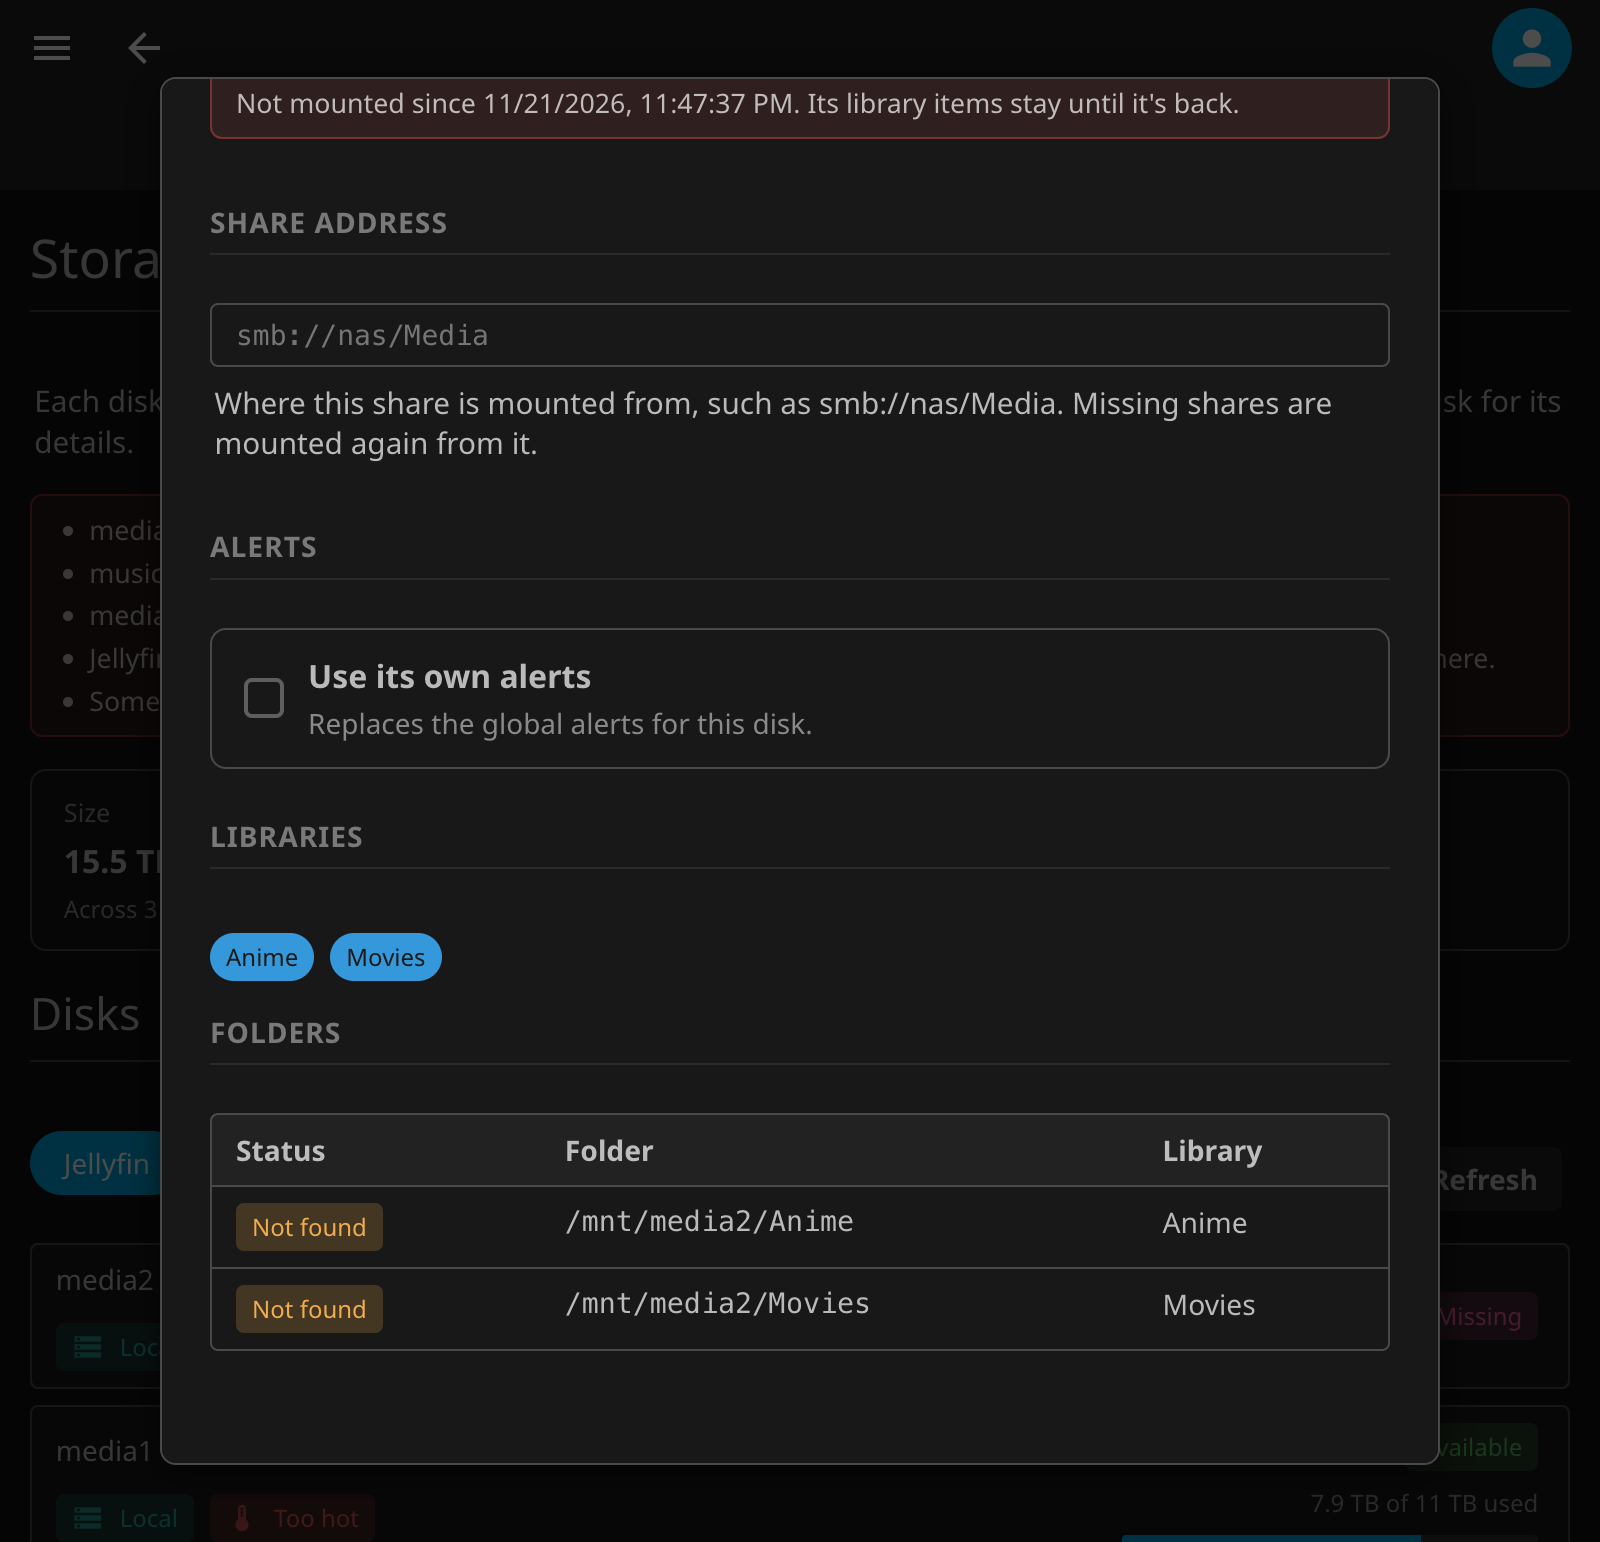
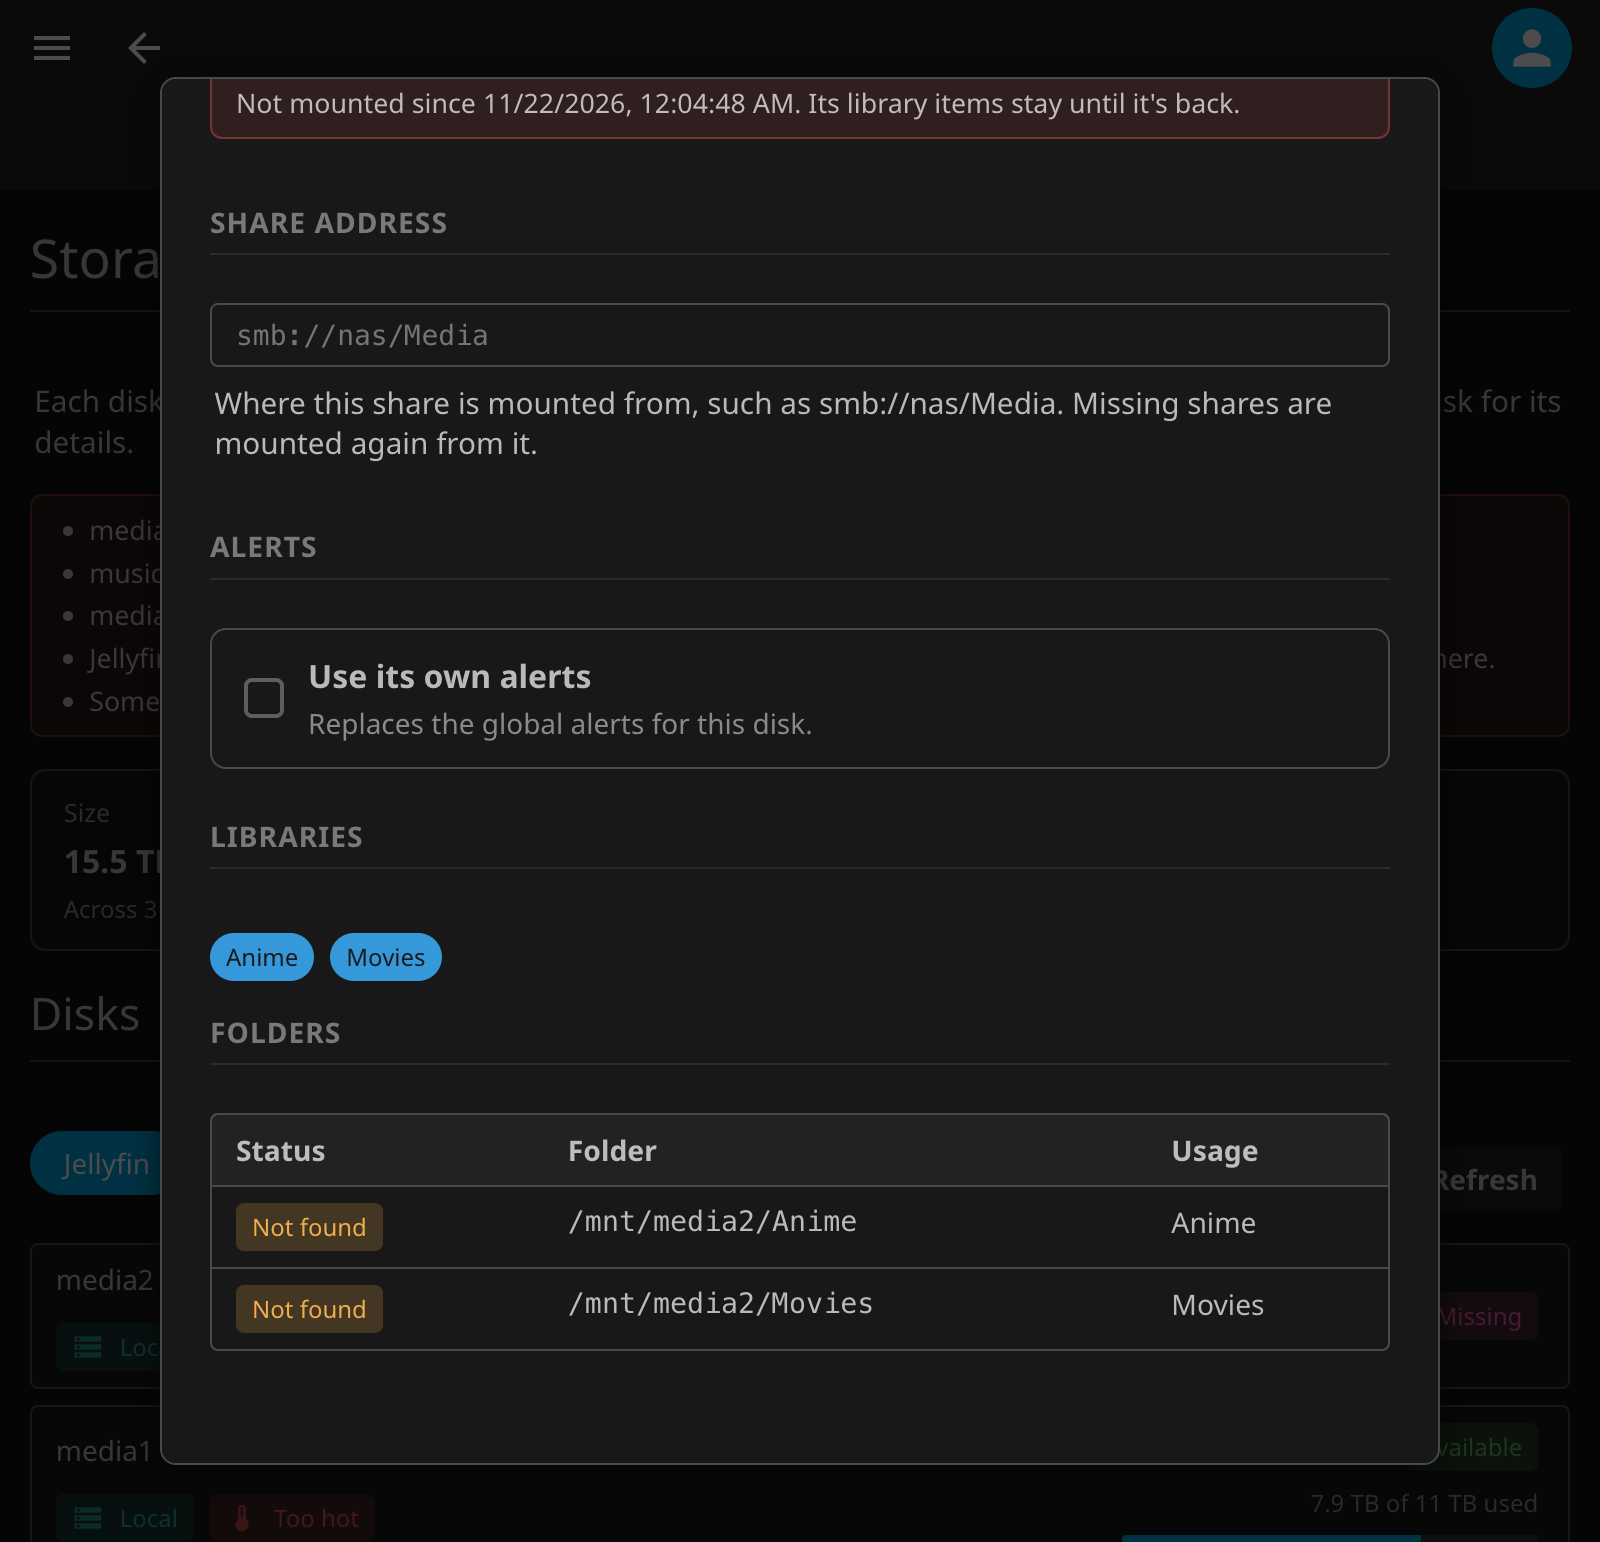
Name the folders column Usage and list Check storage under Maintenance

diff --git a/Jellyfin.Plugin.Storage/Web/storage_storage.js b/Jellyfin.Plugin.Storage/Web/storage_storage.js
@@ -275,7 +275,7 @@ export default function (view) {
         }).join('');
         var wrap = node('div', 'base-static-table-scroll', '');
         wrap.innerHTML = '<table class="base-static-table"><thead><tr><th>' + escapeHtml(t.tr('LabelStatus')) + '</th><th>'
-            + escapeHtml(t.tr('LabelFolder')) + '</th><th>' + escapeHtml(t.tr('ColumnLibrary')) + '</th></tr></thead><tbody>' + rows + '</tbody></table>';
+            + escapeHtml(t.tr('LabelFolder')) + '</th><th>' + escapeHtml(t.tr('LabelUsage')) + '</th></tr></thead><tbody>' + rows + '</tbody></table>';
         section.appendChild(wrap);
         return section;
     }

diff --git a/Jellyfin.Plugin.Storage/Web/storage_common.js b/Jellyfin.Plugin.Storage/Web/storage_common.js
@@ -159,7 +159,7 @@ export function createAlertEditor(options) {
     root.querySelector('.storage-alert-checks').setAttribute('aria-label', t.tr('TabStorage'));
     var pillGroup = root.querySelector('.base-pill-group');
     pillGroup.setAttribute('aria-label', t.tr('LabelMeasurement'));
-    pillGroup.children[0].textContent = t.tr('UnitUsage');
+    pillGroup.children[0].textContent = t.tr('LabelUsage');
     pillGroup.children[1].textContent = t.tr('LabelSize');
     var unitField = root.querySelector('.storage-alert-unit');
 

diff --git a/Jellyfin.Plugin.Storage/Tasks/CheckStorageTask.cs b/Jellyfin.Plugin.Storage/Tasks/CheckStorageTask.cs
@@ -5,6 +5,7 @@ using System.Threading.Tasks;
 using Jellyfin.Plugin.Storage.Services;
 using JPKribs.Jellyfin.Base;
 using MediaBrowser.Controller.Configuration;
+using MediaBrowser.Model.Globalization;
 using MediaBrowser.Model.Tasks;
 
 namespace Jellyfin.Plugin.Storage.Tasks;
@@ -17,16 +18,19 @@ public sealed class CheckStorageTask : PluginScheduledTask
 {
     private readonly StorageService _storage;
     private readonly IServerConfigurationManager _config;
+    private readonly ILocalizationManager _localization;
 
     /// <summary>
     /// Initializes a new instance of the <see cref="CheckStorageTask"/> class.
     /// </summary>
     /// <param name="storage">Checks the disks.</param>
     /// <param name="config">The server configuration, read for its display language.</param>
-    public CheckStorageTask(StorageService storage, IServerConfigurationManager config)
+    /// <param name="localization">Names Jellyfin's Maintenance group in the server's language.</param>
+    public CheckStorageTask(StorageService storage, IServerConfigurationManager config, ILocalizationManager localization)
     {
         _storage = storage;
         _config = config;
+        _localization = localization;
     }
 
     /// <inheritdoc />
@@ -39,7 +43,7 @@ public sealed class CheckStorageTask : PluginScheduledTask
     public override string Description => BaseTranslations.Get(TranslationKeys.TaskCheckStorageDescription, BaseTranslations.ServerLanguage(_config));
 
     /// <inheritdoc />
-    public override string Category => "Storage";
+    public override string Category => _localization.GetLocalizedString("TasksMaintenanceCategory");
 
     /// <inheritdoc />
     public override async Task ExecuteAsync(IProgress<double> progress, CancellationToken cancellationToken)

diff --git a/docs/API.md b/docs/API.md
@@ -62,4 +62,4 @@ Returns the plugin's strings in one language, for the dashboard pages. Allows an
 
 ## Scheduled task
 
-**Check storage**, under **Storage** in **Dashboard → Scheduled Tasks**, checks every disk every 30 minutes and at startup.
+**Check storage**, under **Maintenance** in **Dashboard → Scheduled Tasks**, checks every disk every 30 minutes and at startup.
